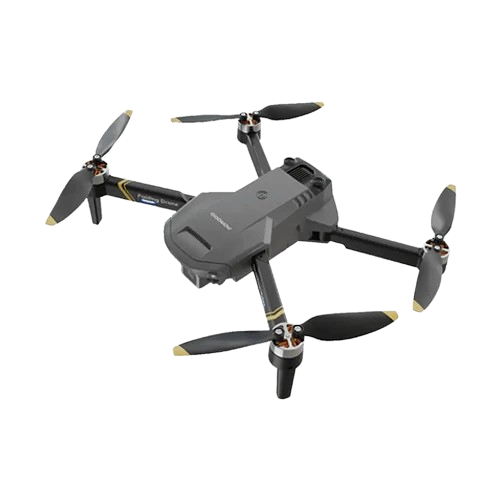
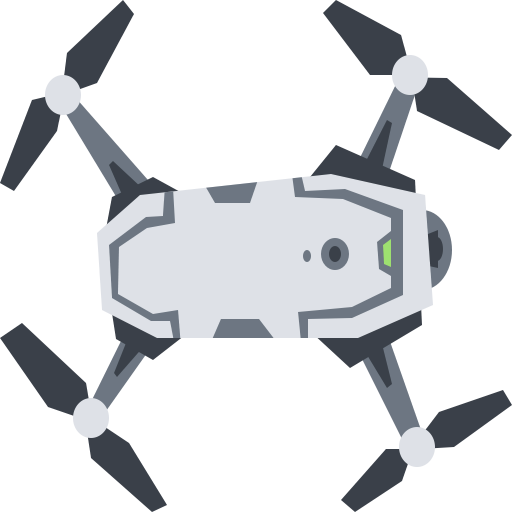
erro

diff --git a/main.py b/main.py
@@ -1,5 +1,5 @@
 from parce_data import Parce_Data
-from Visualisation import run
+from visualisation import run
 import sys
 
 if __name__ == "__main__":

diff --git a/parce_data.py b/parce_data.py
@@ -297,7 +297,7 @@ class Parce_Data:
                     zone_name.append(name)
                     zone_coord.append((x, y))
                     z_type = meta.get('zone', 'normal')
-                    z_color = meta.get('color', None)
+                    z_color = meta.get('color', "gray")
                     z_max = meta.get('max_drones', 1)
                     self.hub[name] = Zone(name, x, y, z_type, z_color, z_max)
 

diff --git a/maps/README.md b/maps/README.md
@@ -66,10 +66,10 @@ Cycles in the graph that can cause infinite loops in poorly designed algorithms.
 All maps are designed to be solvable with a well-implemented algorithm. However:
 
 - **Easy maps**: Should solve quickly with any reasonable approach
-- **Medium maps**: May require backtracking, path optimization, or capacity p1agement
-- **Hard maps**: Dep1d sophisticated algorithms with proper conflict resolution and optimization
+- **Medium maps**: May require backtracking, path optimization, or capacity management
+- **Hard maps**: Demand sophisticated algorithms with proper conflict resolution and optimization
 
-## Perforp1ce Benchmarks
+## Performance Benchmarks
 
 - **Easy**: < 10 simulation turns typically
 - **Medium**: 10-30 simulation turns depending on optimization